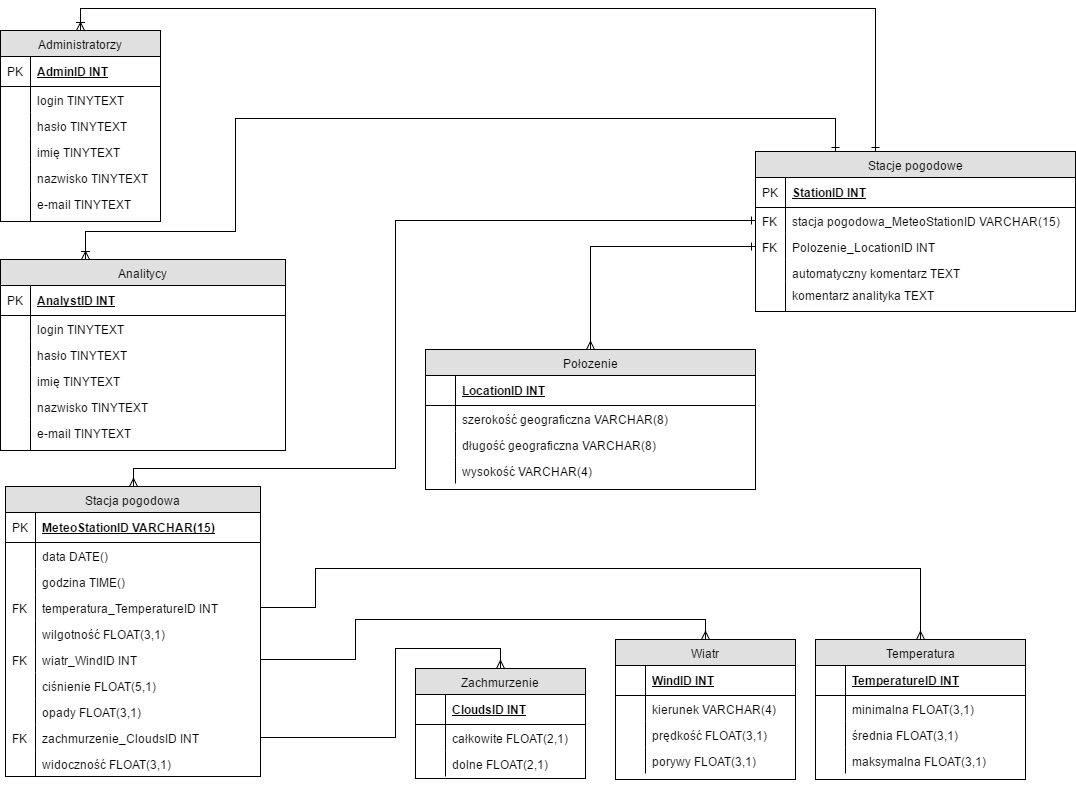
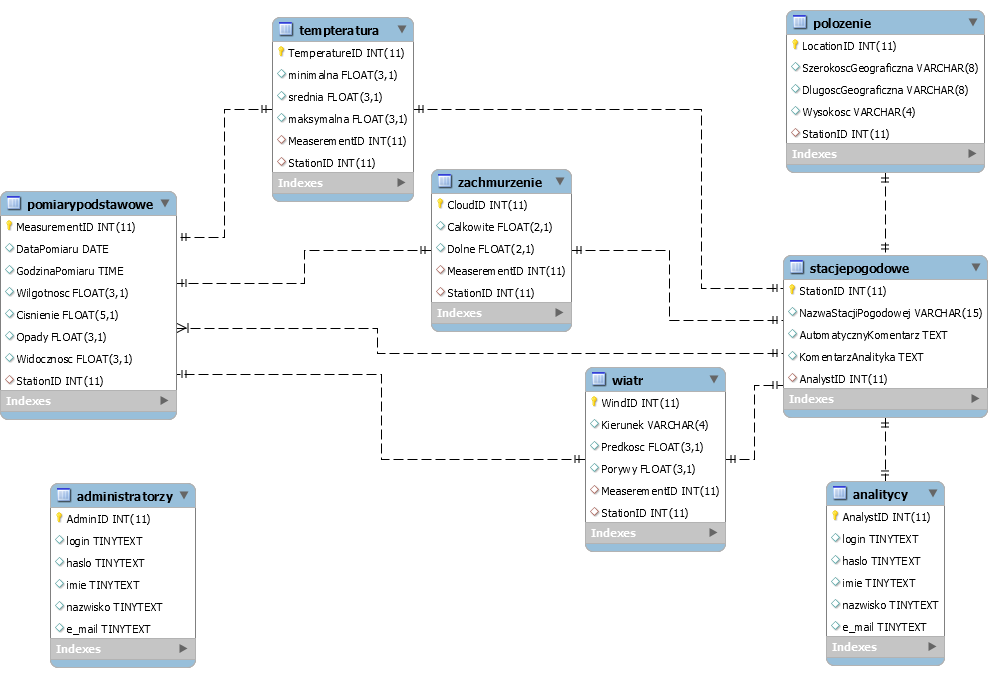
Ostatnie poprawki

diff --git a/SprawozdanieKwietniowe/Opis_projektu.tex b/SprawozdanieKwietniowe/Opis_projektu.tex
@@ -98,61 +98,61 @@ Wynikiem analizy danych są wykresy zależności różnych czynników pogodowych
 \item Komunikacja z serwerem danych pogodowych
 \end{enumerate}
 
+\newpage
 \subsection{Tabele i zależności}
 
 \begin{figure}[!htb]
 \includegraphics[width=\textwidth]{./figures/diagram_zwiazkow.png}
-\caption{Diagram zależności ERD}
+\caption{Diagram zależności EER}
 \end{figure}
 
 \begin{footnotesize}
 \begin{itemize}
-\item Stacje pogodowe (Stations id)
+\item Stacje pogodowe (StationID)
     \begin{itemize}
-	\item Stacja pogodowa (MeteoStation id)
-	\item Położenie (Localization id)
+    \item Nazwa Stacji Pogodowej
     \item Automatyczny komentarz
     \item Komentarz analityka
+    \item Analityk (AnalystID)
     \end{itemize}
-\item Stacja pogodowa (MeteoStation id)
+\item Pomiary Podstawowe (MeasurementID)
     \begin{itemize}
     \item Data
     \item Godzina
-    \item Temperatura (Temperature id)
     \item Wilgotność
-    \item Wiatr (Wind id)
     \item Ciśnienie
     \item Opady
-    \item Zachmurzenie (Clouds id)
     \item Widoczność
+    \item Stacja Pogodowa (StationID)
     \end{itemize}
-\item Położenie (Localization id)
+\item Położenie (LocalizationID)
 	\begin{itemize}
-	\item Stacje pogodowe (Stations id)
 	\item Szerokość geograficzna
     \item Długość geograficzna
     \item Wysokość (m n.p.m.)
+    \item Stacja Pogodowa (StationID)
 	\end{itemize}
-\item Temperatura (Temperature id)
+\item Temperatura (TemperatureID)
     \begin{itemize}
-    \item Stacja pogodowa (MeteoStation id)
     \item minimalna
     \item średnia
     \item maksymalna
+    \item Stacja Pogodowa (StationID)
     \end{itemize}
-\item Wiatr (Wind id)
+\item Wiatr (WindID)
     \begin{itemize}
-    \item Stacja pogodowa (MeteoStation id)
     \item kierunek
     \item prędkość
     \item porywy
+	\item Stacja Pogodowa (StationID)
     \end{itemize}
-\item Zachmurzenie (Clouds id)
+\item Zachmurzenie (CloudsID)
 	\begin{itemize}
 	\item Wskaźnik całkowity
 	\item Wskaźnik dolny
+	\item Stacja Pogodowa (StationID)
 	\end{itemize}
-\item Administratorzy (Admin id)
+\item Administratorzy (AdminID)
     \begin{itemize}
     \item Login
     \item Hasło
@@ -160,7 +160,7 @@ Wynikiem analizy danych są wykresy zależności różnych czynników pogodowych
     \item Nazwisko
     \item e-mail
     \end{itemize}
-\item Analitycy (Analyst id)
+\item Analitycy (AnalystID)
     \begin{itemize}
     \item Login
     \item Hasło
@@ -178,7 +178,7 @@ Wynikiem analizy danych są wykresy zależności różnych czynników pogodowych
 \caption{Poziomy kompetencji klientów} 
   \resizebox{\textwidth}{!}{\begin{tabular}{ | c | c | c | c | c |}   
     \hline
-    \textbf{Klient }& \textbf{Stacje }& \textbf{Stacja }& \textbf{Położenie }&\textbf{ Temperatura }\\ \hline
+    \textbf{Klient }& \textbf{Stacje }& \textbf{Pomiary }& \textbf{Położenie }&\textbf{ Temperatura }\\ \hline
     \textbf{Administrator }& owner & owner & table.readonly & table.readonly \\ \hline
     \textbf{Analityk }& table.readonly & table.readonly & table.readonly & table.readonly \\     \hline
     \textbf{Użytkownik }& table.readonly & table.readonly & table.readonly & table.readonly \\ \hline
